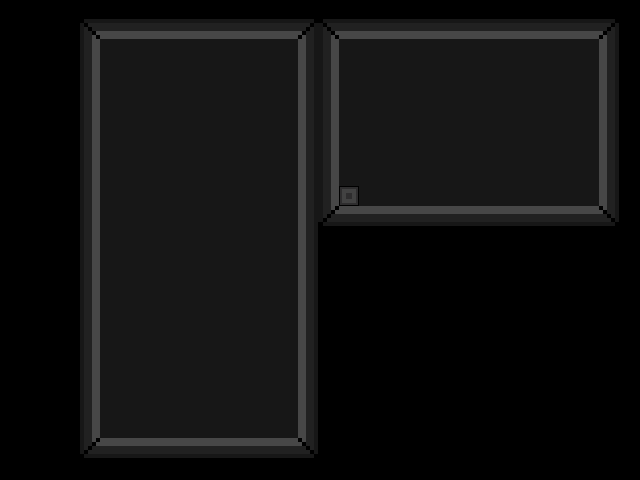
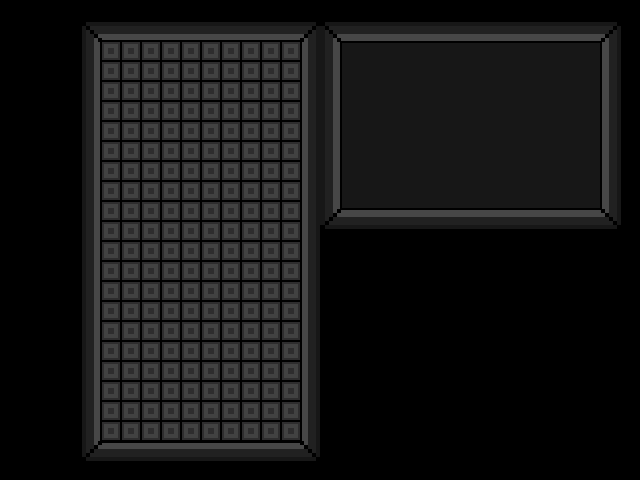
v.0.3.1

Changed region(s): [[0.125, 0.0625, 0.9688, 0.9375]]

diff --git a/hard_mode_latest.py b/hard_mode_latest.py
@@ -17,7 +17,13 @@ def hard_mode():
     tiempo_accion = 100
     tiempo_ultima_accion = 0
     puntos = 0
-
+    phase = 1
+    rest = 10
+    points = puntos * 10
+    pause = False
+    bef_puntos = 0
+    new_game = False
+    back_to_menu = False
 
     tablero = [
                 [0,0,0,0,0,0,0,0,0,0],
@@ -125,10 +131,13 @@ def hard_mode():
     # death = pygame.display.set_mode((pantalla_ancho, pantalla_alto))
     # CREAR LA SUPERFÍCIE TRANSPARENTE I EL RECTÁNGULO SOBRE ELLA:
     seccion_transparente = pygame.Surface((200,400),pygame.SRCALPHA)
-    pygame.draw.rect(seccion_transparente,COLOR_TRANSPARENTE,(0,0,200,400))
+    pygame.draw.rect(seccion_transparente,COLOR_TRANSPARENTE,(0,0,200,0))####400
     # Imágenes
     BACKGROUND_IMAGE = 'assets/background/background_ingame_back.png'
     DEATH_SCREEN = 'assets/background/Death_Screen.png'
+    PAUSE_SCREEN = 'assets/background/Paused_Screen.png'
+    NEW_GAME_SCREEN = 'assets/background/New_Game_Screen.png'
+    EXIT_MENU_SCREEN = 'assets/background/Exit_Menu_Screen.png'
     green_tile = pygame.image.load('assets/peces/Z/z_block.png').convert()
     orange_tile = pygame.image.load('assets/peces/T/t_block.png').convert()
     red_tile = pygame.image.load('assets/peces/I/i_block.png').convert()
@@ -324,7 +333,24 @@ def hard_mode():
                 temporal[a].insert(0,0)
             puede_mover = not comprobar_colision(temporal, tablero)
         return puede_mover
-
+    #
+    def print_score():
+        #
+        transparent_area = pygame.Surface((248, 164), pygame.SRCALPHA)
+        pygame.draw.rect(transparent_area, (0, 0, 0, 0), (0, 0, 248, 164))
+        #
+        pantalla.blit(transparent_area, (340, 40))
+        #
+        font = pygame.font.SysFont(None, 32)
+        img1 = font.render(("Score: {}".format(points)), True, (255, 255, 255))
+        img2 = font.render(("Lines: {}".format(puntos)), True, (255, 255, 255))
+        img3 = font.render(("Phase: {}".format(phase)), True, (255, 255, 255))
+        #
+        pantalla.blit(img1, (350, 53))
+        pantalla.blit(img2, (350, 112))
+        pantalla.blit(img3, (350, 171))
+        #
+    #
     # Esta función gira 90 grados la pieza que está bajando
     def rotar():
         puede_rotar = True
@@ -366,7 +392,6 @@ def hard_mode():
 
         return comprobar_colision(temporal, tablero)
 
-
     # Esta función comprueba si hay alguna línea llena, si es así la quita de tablero, añade una fila arriba y suma un punto por fila
     def comprobar_linea_entera():
         puntos = 0
@@ -385,65 +410,106 @@ def hard_mode():
 
     salir = False
     pieza = elegir_pieza()
+    pause = False
     #
     while not (salir):
+        keys = pygame.key.get_pressed()
         current_time = pygame.time.get_ticks()
         for event in pygame.event.get():
+            #
+            print_score()
+            #
             if event.type == pygame.QUIT:
                 pygame.quit()
-            if event.type == KEYDOWN and current_time - tiempo_ultima_accion > tiempo_accion:
-                if event.key == K_LEFT:
-                    if mover_izquierda():
-                        copia_matriz(temporal, pieza)
-                    tiempo_ultima_accion = current_time
+            #
+            if keys[K_ESCAPE]:
+                back_to_menu = True
+            if keys[K_n]:
+                new_game = True
+            if keys[K_p]:
+                pause = not pause
+                # print(pause)
+            if not pause:
+                #
+                if event.type == KEYDOWN and current_time - tiempo_ultima_accion > tiempo_accion:
+                    if event.key == K_LEFT:
+                        if mover_izquierda():
+                            copia_matriz(temporal, pieza)
+                        tiempo_ultima_accion = current_time
 
-                elif event.key == K_RIGHT:
-                    if mover_derecha():
-                        copia_matriz(temporal,pieza)
-                    tiempo_ultima_accion = current_time
-                elif event.key == K_DOWN:
-                    temps_ultima_jugada -= temps_jugada
-                elif event.key == K_UP:
-                    try:
-                        if not rotar():
+                    elif event.key == K_RIGHT:
+                        if mover_derecha():
                             copia_matriz(temporal,pieza)
                         tiempo_ultima_accion = current_time
-                    except:
-                        pass
-        #
-        vista = crear_vista(vista,tablero,pieza)
-        #Imprimir gráficos:
-        imprimir_pantalla_fons(BACKGROUND_IMAGE)
-        pantalla.blit(seccion_transparente, (100, 40))
-        imprimir_piezas()
-        pygame.display.update()
-        clock.tick(fps)
-        current_time = pygame.time.get_ticks()
-        if comprobar_llega_abajo():
-            copia_matriz(vista, tablero)
-            puntos += comprobar_linea_entera()
-            pieza = elegir_pieza()
-        else:
-            if current_time -  temps_ultima_jugada > temps_jugada:
-                temps_ultima_jugada = current_time
-                bajar_pieza()
-                if comprobar_colision(pieza,tablero):
-                    copia_matriz(vista, tablero)
-                    puntos += comprobar_linea_entera()
-                    pieza = elegir_pieza()
-        if comprobar_arriba():
-            imprimir_death(DEATH_SCREEN)
-            time.sleep(3)
-            break
-        print(puntos)
-        if puntos >= 2:
-            temps_jugada = 300
-        if puntos >= 4:
-            temps_jugada = 275
-        if puntos >= 6:
-            temps_jugada = 250
-        if puntos >= 8:
-            temps_jugada = 225
-        if puntos >= 10:
-            temps_jugada = 200
-    #
+                    elif event.key == K_DOWN:
+                        temps_ultima_jugada -= temps_jugada
+                    elif event.key == K_UP:
+                        try:
+                            if not rotar():
+                                copia_matriz(temporal,pieza)
+                            tiempo_ultima_accion = current_time
+                        except:
+                            pass
+        if pause == True:
+            imprimir_death(PAUSE_SCREEN)
+        if not pause:
+            vista = crear_vista(vista,tablero,pieza)
+            #Imprimir gráficos:
+            imprimir_pantalla_fons(BACKGROUND_IMAGE)
+            pantalla.blit(seccion_transparente, (100, 40))
+            imprimir_piezas()
+            print_score()
+            pygame.display.update()
+            clock.tick(fps)
+            current_time = pygame.time.get_ticks()
+            if comprobar_llega_abajo():
+                copia_matriz(vista, tablero)
+                puntos += comprobar_linea_entera()
+                pieza = elegir_pieza()
+            else:
+                if current_time -  temps_ultima_jugada > temps_jugada:
+                    temps_ultima_jugada = current_time
+                    bajar_pieza()
+                    if comprobar_colision(pieza,tablero):
+                        copia_matriz(vista, tablero)
+                        puntos += comprobar_linea_entera()
+                        pieza = elegir_pieza()
+            if comprobar_arriba():
+                imprimir_death(DEATH_SCREEN)
+                time.sleep(3)
+                print('Score: {}\nLines: {}' .format(points, puntos))
+                print(temps_jugada)
+                break
+            if new_game == True:
+                imprimir_death(NEW_GAME_SCREEN)
+                time.sleep(3)
+                main_game()
+                break
+            if back_to_menu == True:
+                imprimir_death(EXIT_MENU_SCREEN)
+                time.sleep(3)
+                break
+            #
+            def score(bef_puntos, temps_jugada):
+                if bef_puntos != puntos:
+                    temps_jugada = 300 - (10 * puntos)
+                    bef_puntos += 1
+                return temps_jugada
+            #
+            temps_jugada = score(bef_puntos, temps_jugada)
+            rest = score(bef_puntos, temps_jugada)
+            points = puntos * 10
+            #
+            # def phase_evolve(phase, puntos, rest, bef_puntos):
+            #     if puntos >= 6:
+            #         phase += 1
+            #         puntos = 0
+            #         bef_puntos = 0
+            #         rest += 5
+            #     return puntos, phase, rest, bef_puntos
+            # #
+            # puntos = phase_evolve(phase, puntos, rest, bef_puntos)
+            # rest = phase_evolve(phase, puntos, rest, bef_puntos)
+            # phase = phase_evolve(phase, puntos, rest, bef_puntos)
+            # bef_puntos = phase_evolve(phase, puntos, rest, bef_puntos)
+            # #

diff --git a/game_latest.py b/game_latest.py
@@ -131,7 +131,7 @@ def main_game():
     # death = pygame.display.set_mode((pantalla_ancho, pantalla_alto))
     # CREAR LA SUPERFÍCIE TRANSPARENTE I EL RECTÁNGULO SOBRE ELLA:
     seccion_transparente = pygame.Surface((200,400),pygame.SRCALPHA)
-    pygame.draw.rect(seccion_transparente,COLOR_TRANSPARENTE,(0,0,200,400))
+    pygame.draw.rect(seccion_transparente,COLOR_TRANSPARENTE,(0,0,200,0))####400
     # Imágenes
     BACKGROUND_IMAGE = 'assets/background/background_ingame_back.png'
     DEATH_SCREEN = 'assets/background/Death_Screen.png'
@@ -346,9 +346,9 @@ def main_game():
         img2 = font.render(("Lines: {}".format(puntos)), True, (255, 255, 255))
         img3 = font.render(("Phase: {}".format(phase)), True, (255, 255, 255))
         #
-        pantalla.blit(img1, (345, 53))
-        pantalla.blit(img2, (345, 112))
-        pantalla.blit(img3, (345, 171))
+        pantalla.blit(img1, (350, 53))
+        pantalla.blit(img2, (350, 112))
+        pantalla.blit(img3, (350, 171))
         #
     #
     # Esta función gira 90 grados la pieza que está bajando
